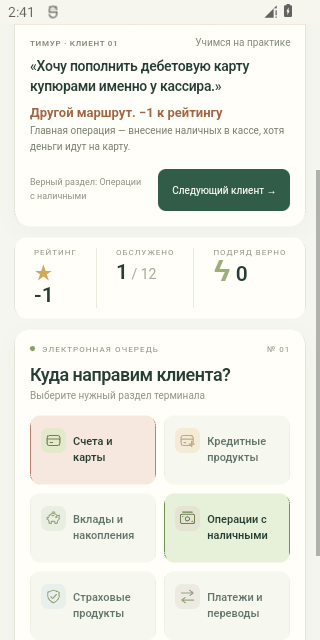
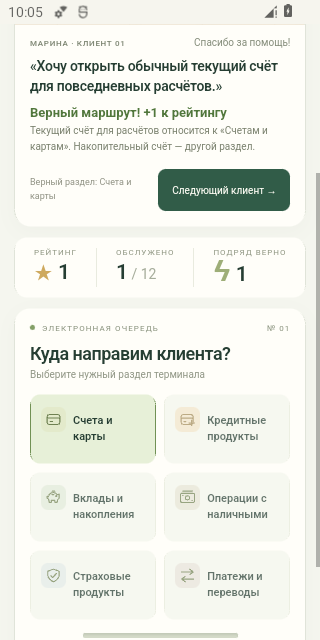
Publish verified 1.1.1 APK and macOS compatibility evidence

diff --git a/IOS.md b/IOS.md
@@ -33,15 +33,13 @@
 потребуется снова открыть игру с интернетом. Очистка данных также может удалить рекорд.
 Внешние ссылки на источники в справочнике требуют интернета.
 
-## Обновление и сборка
-
-### На Mac
+## На Mac
 
 Та же веб-игра работает в браузере macOS: откройте ссылку в актуальном Safari или Chrome и нажмите «Начать смену». Для офлайн-запуска дождитесь надписи «Игра сохранена». В Safari на macOS Sonoma 14 и новее можно выбрать «Файл» → «Добавить в Dock», чтобы открывать игру отдельным окном. После добавления откройте её с интернетом и снова дождитесь сохранения.
 
 Для запуска без первоначальной загрузки сайта распакуйте ZIP для Windows/macOS и откройте «Играть.html». Вспомогательные `.cmd`-файлы на macOS не используются.
 
-### Обновление веб-приложения
+## Обновление и сборка
 
 При открытии с интернетом браузер проверяет новую версию. После её сохранения
 она станет доступна при следующем запуске. Обновление не перезагружает текущую смену.
@@ -56,13 +54,14 @@
 
 ## Проверка этой версии
 
-Автоматическая проверка в WebKit 26.5 на macOS и Chromium 151 на Windows:
+Выпуск 1.1.1 автоматически проверен в WebKit 26.5 на macOS:
 полная смена из 12 клиентов при выключенном локальном сервере,
 правильные и неправильные ответы, рекорд после перезагрузки и полного
 закрытия браузера, повторный офлайн-запуск, пауза, справочник,
 экраны шириной 320, 390 и 844 пикселя. Проверены декодирование и воспроизведение встроенного MP3 без интернета, выключение музыки и остановка при паузе. Ошибок JavaScript не обнаружено.
-24 существующих теста Python также проходят.
+Отдельно проверен автономный «Играть.html» через `file://` с заблокированными HTTP(S)-запросами: начало игры, верный ответ, кириллический талон и следующий клиент. Внешних зависимостей и ошибок нет.
+25 тестов Python также проходят, включая исполнение правил из автономного HTML без импорта локальных модулей.
 
-Отчёт: [qa/ios-webapp.json](qa/ios-webapp.json).
+Отчёт: [qa/ios-webapp.json](qa/ios-webapp.json). [Проверка на macOS](https://github.com/peter20191233/osm-manager-game/actions/runs/37157161279).
 Это проверка браузерных движков; установка с экрана Safari на физическом
 iPhone в этой среде не проверялась.

diff --git a/QA.md b/QA.md
@@ -1,5 +1,17 @@
 # Проверка игры
 
+## Выпуск 1.1.1 — 4 октября 2026 года
+
+- 25 тестов Python проходят; автоматические проверки запускаются для PR и push в main на Python 3.10 и 3.12. Проверяются также HTML/ZIP/PWA и повторная сборка из распакованного ZIP.
+- [Подписанный Android APK](https://github.com/peter20191233/osm-manager-game/actions/runs/37157041852): версия 1.1.1, versionCode 3, **947 355 байт**. Android 12 / API 31 и Android 15 / API 35: по 4 инструментальных теста и Android lint пройдены. Проверены игровая смена, музыка, пауза, рекорд, отсутствие INTERNET и debuggable, SHA-256 установленного APK и прежний сертификат. Файлы приложения внутри двух проверенных APK совпадают; публикуется APK из задания API 35.
+- [WebKit 26.5 на macOS](https://github.com/peter20191233/osm-manager-game/actions/runs/37157161279): полная смена офлайн, музыка, сохранение рекорда, перезагрузка и повторный запуск браузера пройдены. Автономный HTML из ZIP также открыт через `file://` с заблокированными HTTP(S)-запросами: верный ответ, талон и следующий клиент работают без внешних зависимостей.
[2 lines of base64/hex data omitted]
+
+Актуальные отчёты: [Android](qa/android-release.json), [macOS и веб](qa/ios-webapp.json), [автономная игра на macOS](qa/macos-standalone.png). Это автоматические проверки на эмуляторах Android и в браузерном движке на macOS; ручная установка на физические устройства не проводилась.
+
+## Первоначальные проверки
+
 Проверено 13 сентября 2026 года.
 
 - **24 автоматических теста пройдены**: начисление +1/−1, отрицательный рейтинг, повторные нажатия, тайм-аут, пауза, тренировка, завершение смены, воспроизводимость и баланс очереди, корректность сценариев и источников, безопасная раздача файлов сервером.

diff --git a/README.md b/README.md
@@ -73,7 +73,7 @@ py -3 launcher.py --no-browser
 
 ## Самостоятельный запуск на телефоне и офлайн-режим
 
-Для доступа без работающего компьютера разместите статические файлы игры из ZIP на хостинге с **HTTPS**: `index.html`, `styles.css`, `bootstrap.js`, `game.py`, `engine.py`, `content.py`, `scene.svg`, `manifest.webmanifest`, `sw.js`, папки `assets` и `vendor`. Сохраните имена и структуру папок. Сервер должен отдавать `.py` как обычные текстовые файлы, а не запускать их на сервере. Python, CMD и служебные документы на хостинг загружать не требуется.
+Для доступа без работающего компьютера разместите статические файлы игры из ZIP на хостинге с **HTTPS**: `index.html`, `styles.css`, `bootstrap.js`, `music.js`, `game.py`, `engine.py`, `content.py`, `scene.svg`, `manifest.webmanifest`, `sw.js`, папки `assets` и `vendor`. Сохраните имена и структуру папок. Сервер должен отдавать `.py` как обычные текстовые файлы, а не запускать их на сервере. Python, CMD и служебные документы на хостинг загружать не требуется.
 
 Откройте HTTPS-адрес в Safari на iPhone или Chrome на Android. После первой полной загрузки добавьте игру на главный экран: в Safari через «Поделиться» → «На экран Домой», в Chrome через меню установки/добавления на главный экран. Названия пунктов могут зависеть от версии браузера. После сохранения ресурсов игра работает офлайн; браузер может удалять данные сайта при очистке или нехватке места.
 

diff --git a/ANDROID.md b/ANDROID.md
@@ -4,7 +4,7 @@ Android-версия игры «Будни Операционно-Сервисн
 
 Версия приложения: **1.1.1** (`versionCode 3`). Минимальная версия системы: **Android 12 / API 31**. Идентификатор приложения: `ru.peterkorytov.osmgame`.
 
-Размер APK — около **1 МБ**. Выпуски подписываются постоянным ключом; результаты проверки на эмуляторах Android 12 и 15 сохраняются в [QA.md](QA.md).
+Размер APK — **947 355 байт**, около **0,95 МБ**. Выпуск подписан постоянным ключом и проверен на эмуляторах Android 12 и 15; результаты сохранены в [QA.md](QA.md).
 
 Версия 1.1.1 — техническое обновление: единое описание категорий, упрощённая Android-оболочка и автоматические проверки сборки. Правила, музыка и формат сохранённых рекордов прежние.
 
